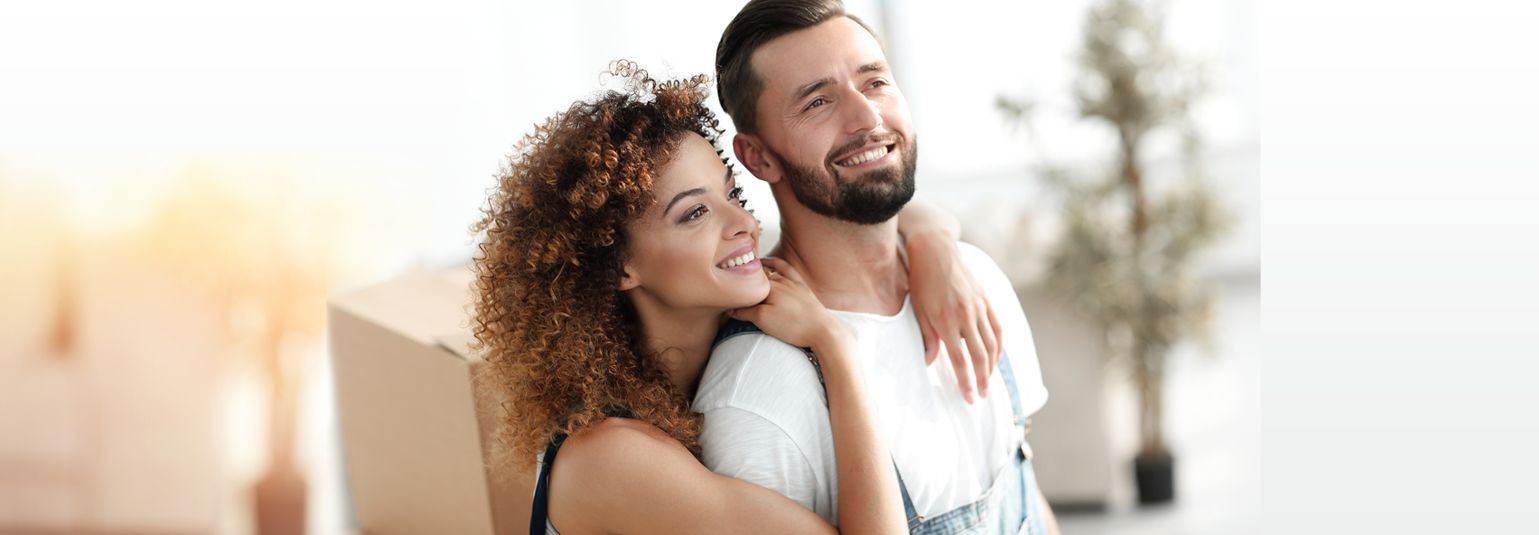
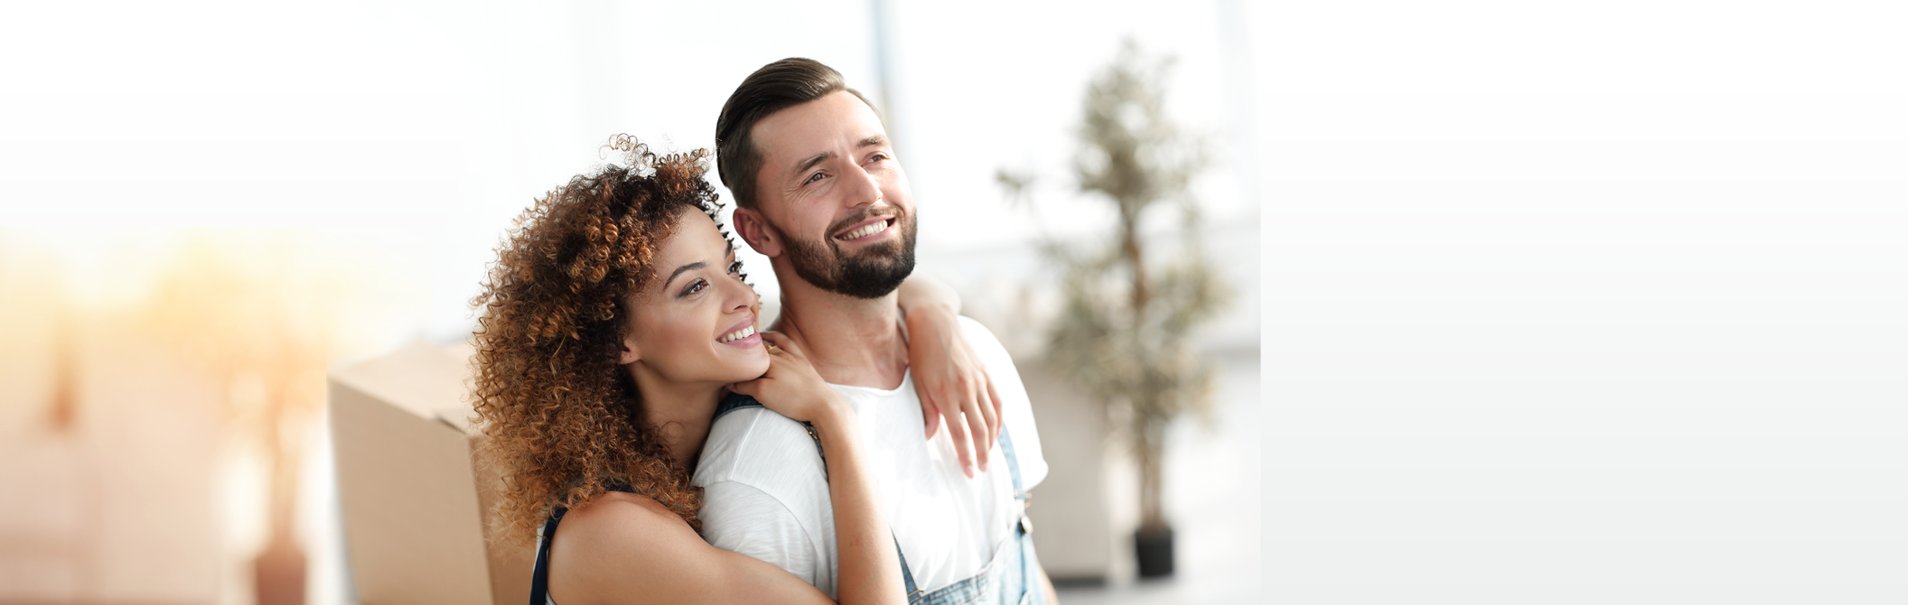
desktop

diff --git a/assets/css/styles.css b/assets/css/styles.css
@@ -3,19 +3,76 @@ body{font-family:var(--main-font);color:var(--textColor)}
 img{max-width:100%}
 .container-fluid{padding:0}
 .mobile{display:none}
-.bg.banner{background:url(../imgs/bg.png);background-position:0 center;padding-top:80px;margin-top:-71px;float:left;width:100%;background-repeat:no-repeat;background-size:100% 600px}
-.logo{width:211px;margin-top:33px}
+.row.balls {
+    width: 70%;
+    margin: auto;
+    margin-top: 60px;
+    font-weight: bold;
+}
+
+.ball-img {
+    max-width: 85px;
+    margin: auto;
+    margin-bottom: 9px;
+    /* display: flex; */
+    height: 90px;
+    display: flex;
+    align-items: center;
+    justify-content: center;
+}
+
+.next {
+    margin-top: 13px;
+}
+
+.next>span:last-of-type {
+    color: #ff3c47;
+}
+
+.ball-img img {
+    height: auto;
+}
+.win {
+    color: #ff1500;
+    font-size: 56px;
+    font-weight: bold;
+    -webkit-text-stroke-width: 4px;
+    -webkit-text-stroke-color: #ff1500;
+    letter-spacing: 8px;
+    text-align: center;
+    margin-top: -13px;
+    -webkit-font-smoothing: antialiased;
+}
+.bg.banner{background:url(../imgs/bg.png);height: 590px;background-repeat: no-repeat;background-size: 100%;background-repeat:no-repeat;background-position: 0px 187px;padding-top: 209px;}
+.logo{width: 124px;margin-top: 49px;margin-left: 55px;}
 .banner .container{text-align:center}
 .banner-left{padding-left:54px;padding-top:53px}
-.slogan{font-size:51px;font-weight:lighter;-webkit-font-smoothing:antialiased;padding-top:36px;line-height:68px;padding-left:135px}
+.slogan{font-size: 35px;font-weight: 700;-webkit-font-smoothing:antialiased;padding-top: 78px;line-height:68px;text-align: center;margin-left: -15px;-webkit-text-stroke-width: 1px;-webkit-text-stroke-color: #010101;letter-spacing: 1px;}
 .slogan b{display:block}
 .fluid-container.steps-cont {
     background: #fddfdc;
 }
-.form{background: #fff;padding:3px 43px;width:360px;margin-left:-28px;margin-top:44px;padding-top:1px;}
-.fields-cont>*{display:block;width:100%;border:0;margin:10px 0;padding:6px 15px;margin-bottom:17px;font-size:17px;border: 1px solid;}
-button.btn{background: #dded00;color:#fff;height:40px;margin-top:-3px;border-radius:0;font-size:21px;line-height:27px;margin-bottom:0;transition:all .5s ease;}
-.form-check{font-size:12px;padding:0;margin-top:7px;word-spacing:1px;border: 0;}
+.action {
+    margin-bottom: 70px;
+    padding-top: 28px;
+    font-weight: bold;
+}
+
+.action h4 {
+    font-size: 22px;
+}
+
+.action .btn.primary {
+    width: 310px;
+    height: 53px;
+    margin-top: 16px;
+    font-size: 20px;
+    font-weight: bold;
+}
+.form{background: #fff;padding: 3px 10px;width: 260px;margin-left:-28px;margin-top: 0px;padding-top:1px;-webkit-box-shadow: 2px 2px 28px 0px rgba(122,122,122,1);-moz-box-shadow: 2px 2px 28px 0px rgba(122,122,122,1);box-shadow: 2px 2px 28px 0px rgba(122,122,122,1);border-radius: 9px;padding-bottom: 33px;}
+.fields-cont>*{display:block;width:100%;border:0;margin:10px 0;padding: 5px 15px;margin-bottom: 9px;font-size: 11px;border: 1px solid;border-radius: 50px;}
+button.btn{background: #dded00;color: #221b22;height: 35px;margin-top:-3px;border-radius: 50px;font-size: 15px;line-height: 27px;margin-bottom:0;transition:all .5s ease;border: 0;font-weight: bold;}
+.form-check{font-size: 7px;padding:0;margin-top:7px;word-spacing:1px;border: 0;}
 input#tc{float:left;margin-right:-8px;box-shadow:none;border:0;border-radius:0}
 label.form-check-label{width:calc(100% - 37px);color: #090909;text-align:left;}
 .price-time{color:var(--color1);text-align:center;border-top:1px solid var(--color1);border-bottom:1px solid var(--color1);float:left;margin-top:12px;font-size:23px;margin-bottom:8px;font-weight:700;line-height:39px;letter-spacing:1px;width:346px;max-width:90%}
@@ -23,9 +80,18 @@ label.form-check-label{width:calc(100% - 37px);color: #090909;text-align:left;}
 .price{/* border-right:1px solid var(--color1); *//* width:197px; *//* max-width:60%; */}
 .type-logo{border-right:2px solid var(--color1);width:101px;padding-right:10px;margin-left:-7px;height:284px}
 .type button.btn{background:var(--color2);width:calc(100% - 32px);color:#fff;margin-left:-22px;height:48px;margin-top:10px;box-shadow:2px 3px #aaa6a0;font-size:19px;text-transform:uppercase;word-spacing:4px;transition:all .5s ease}
-.stamp{margin-top:40px;margin-left:90px}
-p.desc{font-size:17px;padding-top:17px;padding-left:180px;padding-right:50px}
-.form .title{margin-bottom:22px;font-size:25px;margin-top:17px;color: #0009aa;}
+.container-fluid.header {
+    position: absolute;
+    width: 100%;
+    z-index: 9;
+}
+
+.fields-cont {
+    padding: 0 19px;
+}
+.stamp{/* margin-top:40px; */margin-left:90px;width: 170px;position: absolute;right: 0;z-index: 9;}
+p.desc{font-size: 13px;padding-top: 67px;/* padding-left:180px; *//* padding-right:50px; */font-weight: bold;width: 56%;margin: auto;}
+.form .title{margin-bottom: 14px;font-size: 24px;margin-top: 21px;color: #0009aa;font-weight: bold;}
 .type{margin-top:30px}
 .type-title{font-size:25px;margin-top:7px;margin-bottom:1px}
 .type-detail{padding-left:29px}
@@ -37,13 +103,11 @@ footer{background: #ededed;height:150px;background-size:100% 150px;margin-top:23
 .form button.btn:hover{background:#555}
 .type button.btn:hover{background:#5ec039}
 @media screen and (max-width: 1500px) {
-.stamp{margin-top:20px}
-.bg.banner{background-size:100%;background-position:0 40px}
-.banner-left{padding-top:0}
+
 }
 @media screen and (max-width: 1300px) {
-.stamp{margin-top:60px}
-.bg.banner{background-position:center;background-size:200% 570px}
+.stamp{/* margin-top:60px */}
+.bg.banner{/* background-position:center; *//* background-size:200% 570px */}
 .container{width:95%}
 .type-logo{margin-left:0;height:240px}
 .type-detail{padding-left:40px}
@@ -53,7 +117,7 @@ footer{background: #ededed;height:150px;background-size:100% 150px;margin-top:23
 .type:last-of-type{margin-left:0}
 .slogan{padding-left:10px}
 p.desc{padding-left:10px}
-.form{width:auto}
+.form{/* width:auto */}
 .type button.btn{width:100%;margin-left:-15px}
 }
 @media screen and (max-width:1024px) {

diff --git a/index.html b/index.html
@@ -13,7 +13,7 @@
    <body>
       <div class="container-fluid">
         <div class="container-fluid content">
-          <div class="container">
+          <div class="container-fluid header">
         <div class="row">
           <div class="col-md-2 logo">
             <img src="assets/imgs/logo.png"  alt="Bmillions"/>
